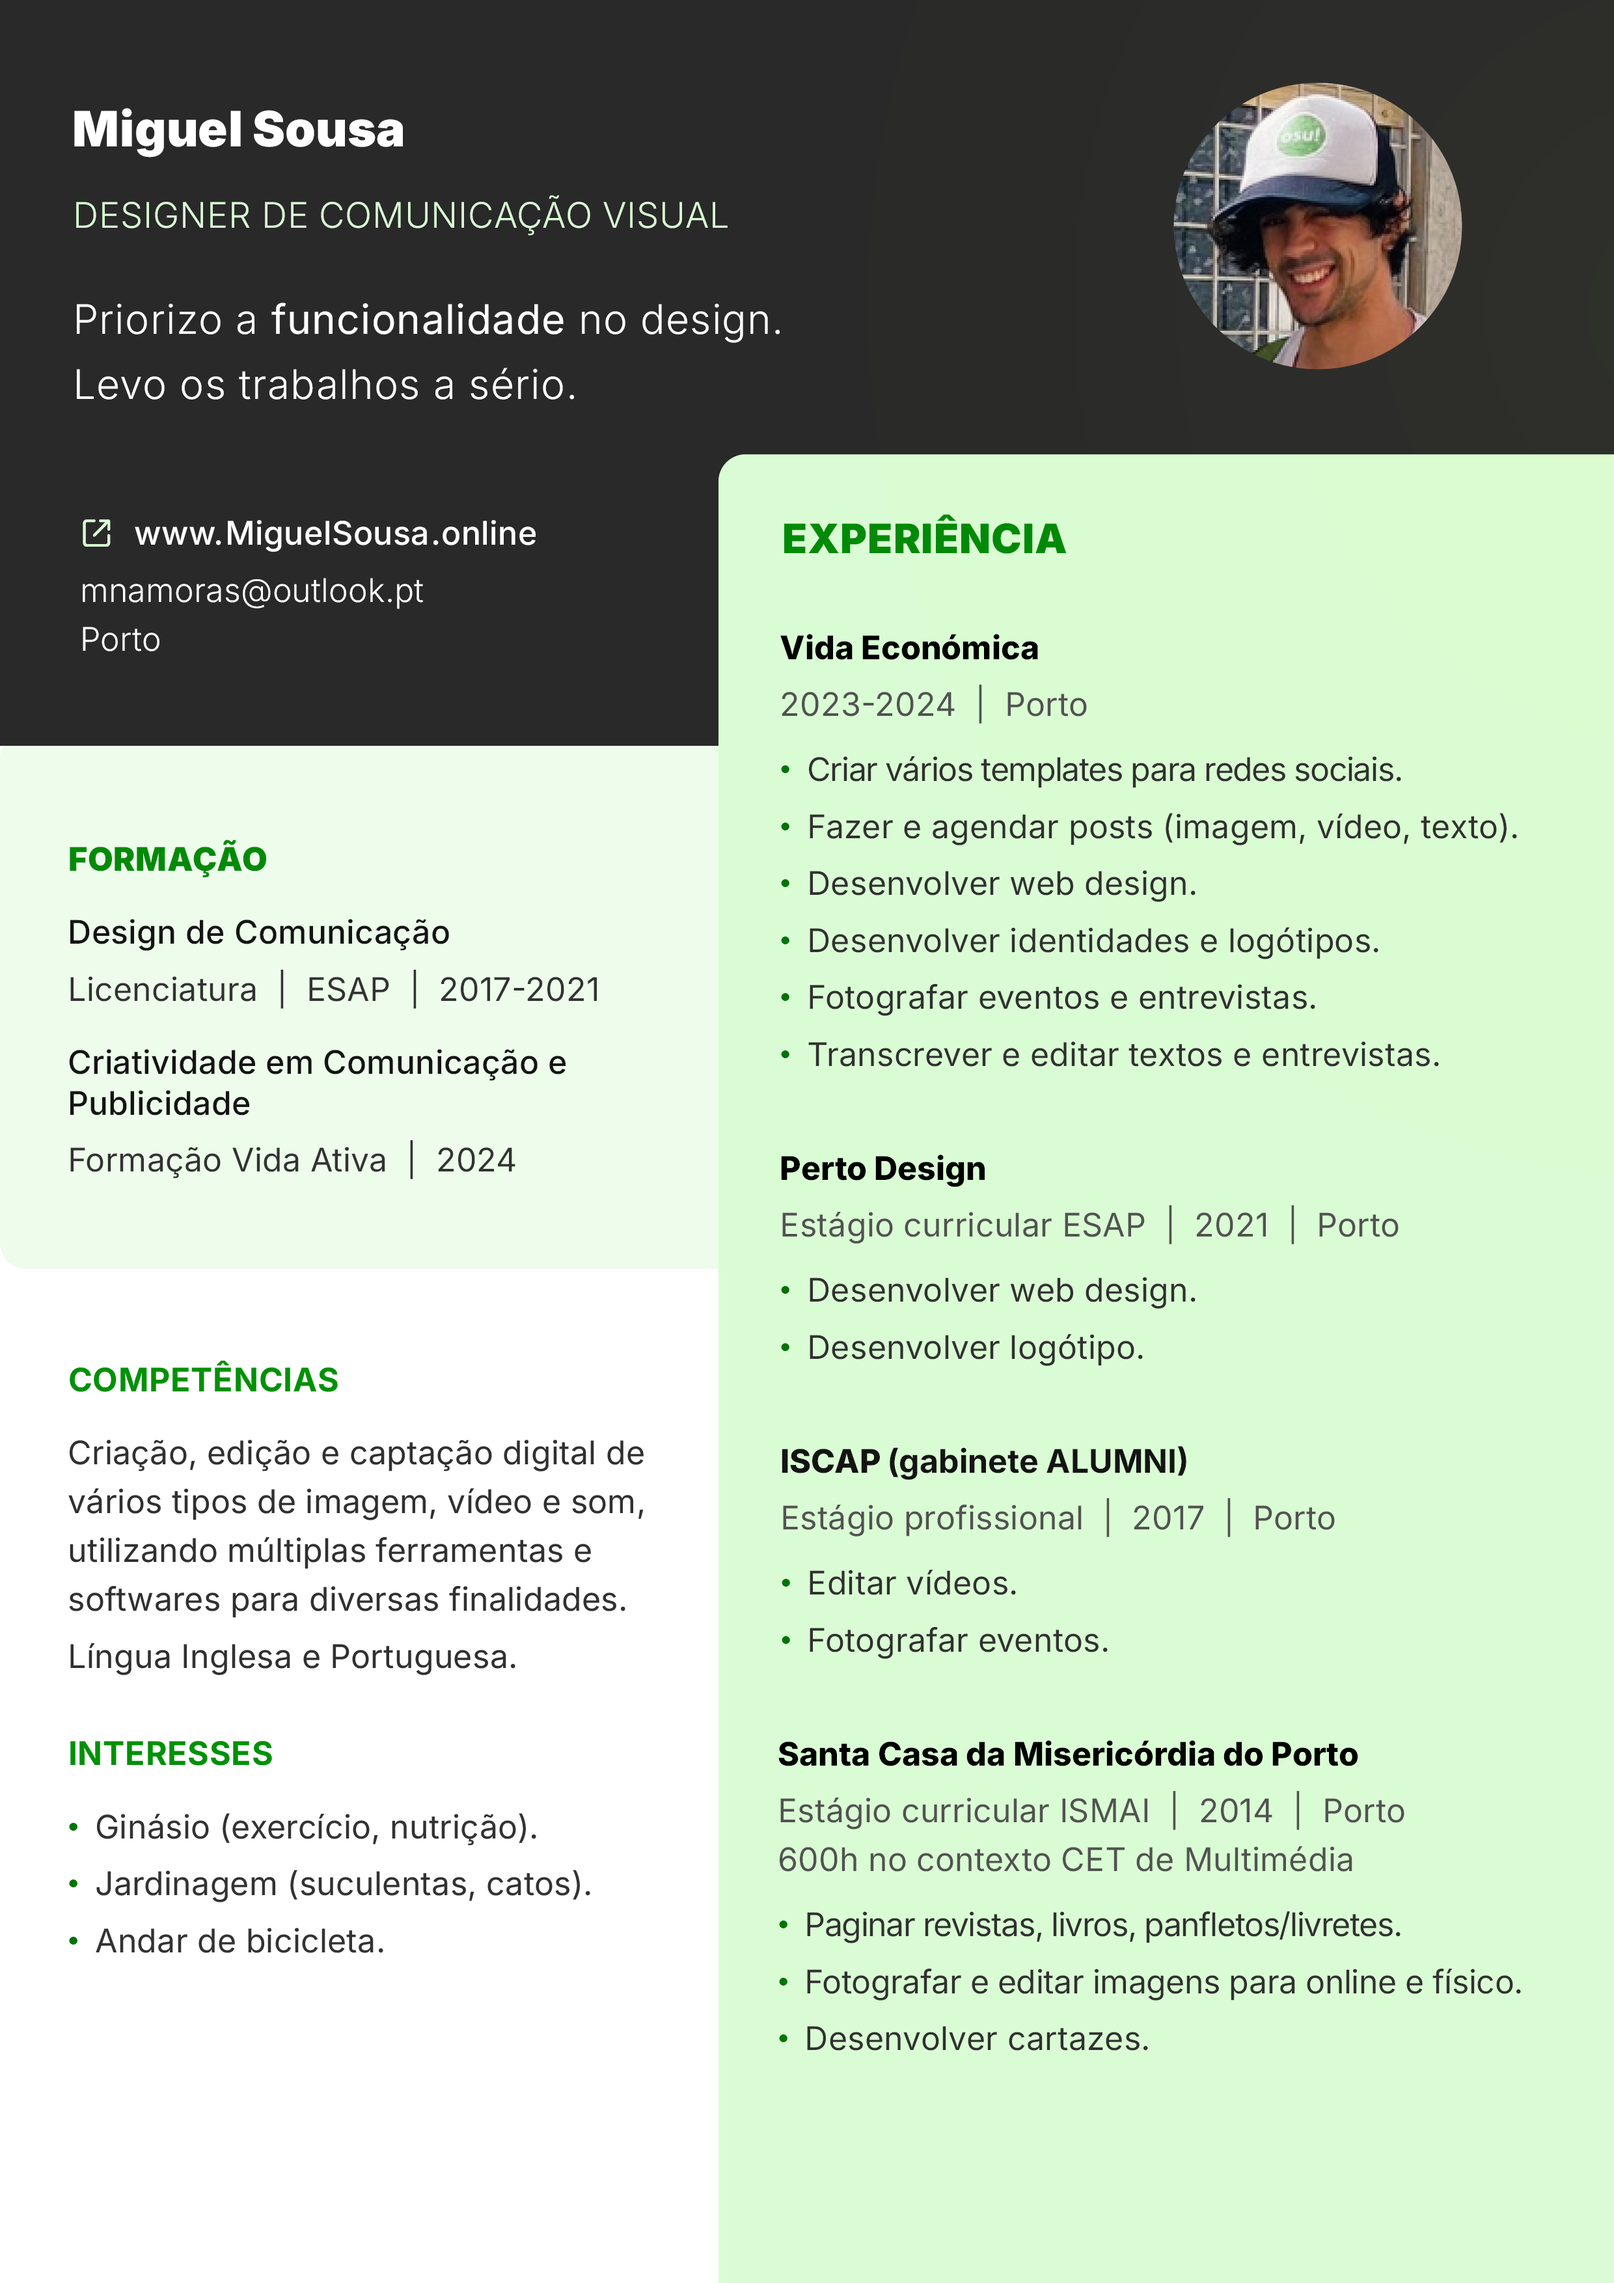
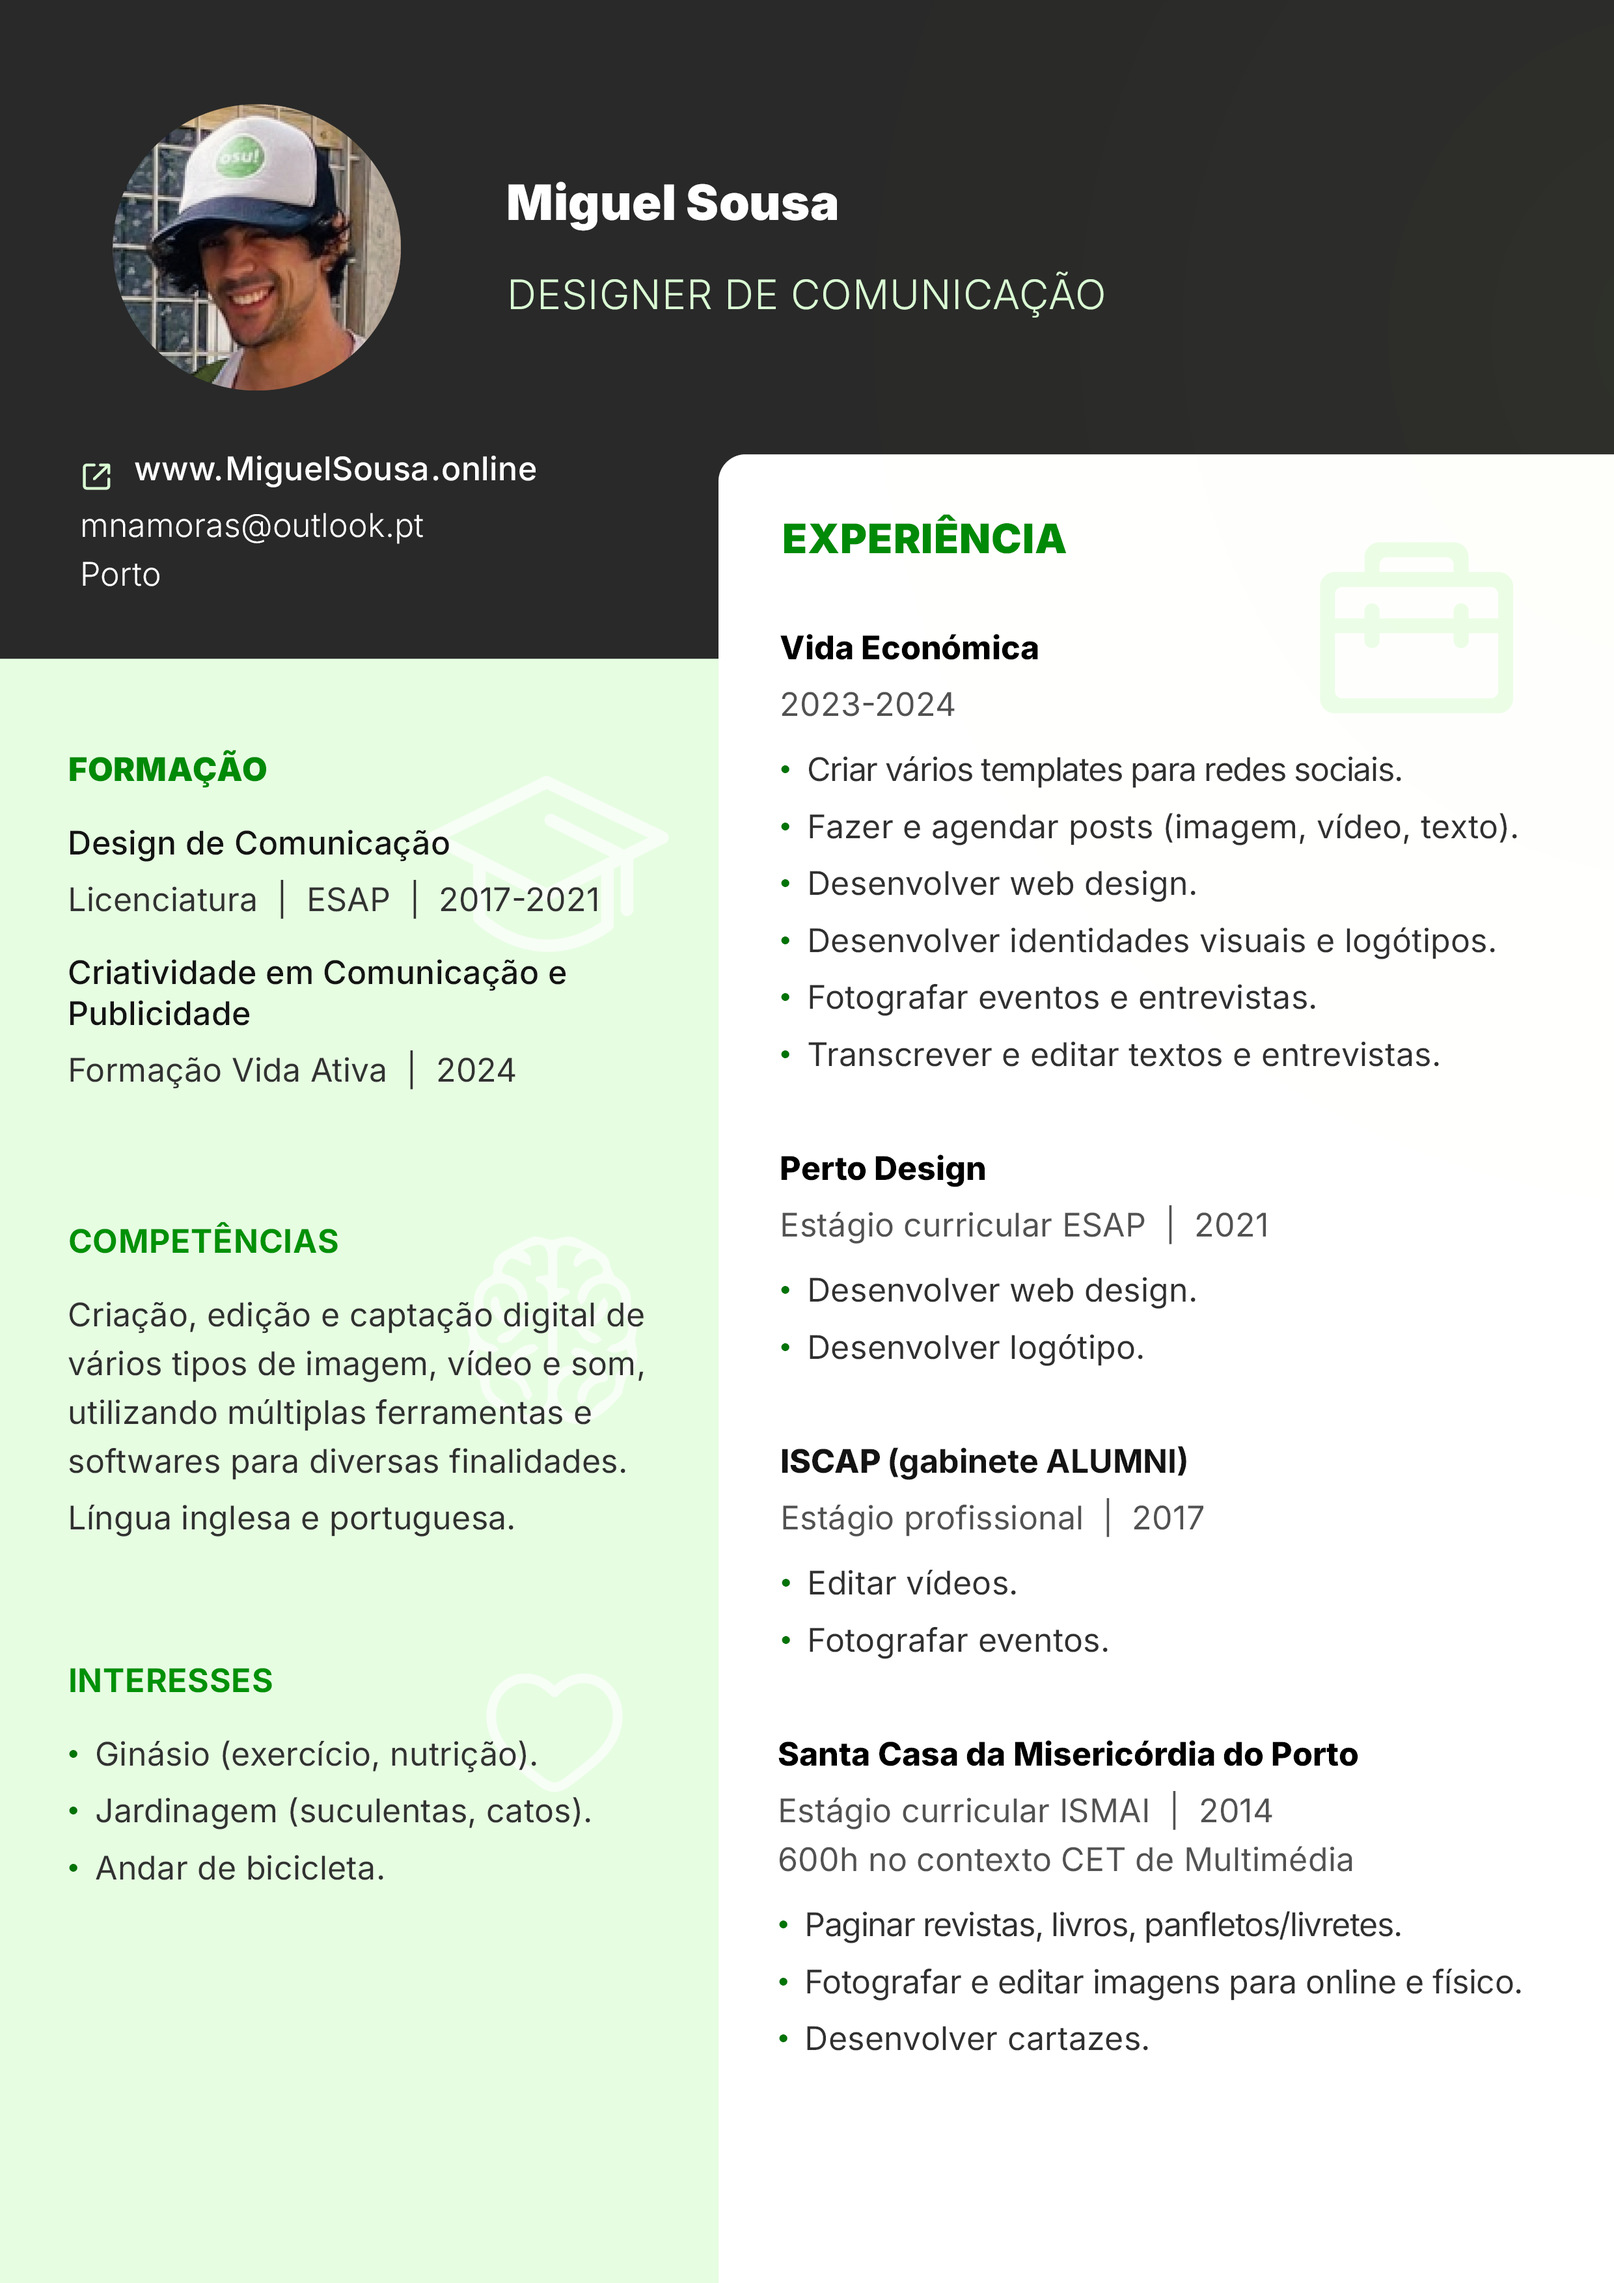
corrigir cv

diff --git a/cv exp.html b/cv exp.html
@@ -1,0 +1,190 @@
+<!DOCTYPE html>
+<html lang="pt">
+<head>
+    <meta charset="UTF-8">
+    <meta name="viewport" content="width=device-width, initial-scale=1.0">
+    <title>CV Miguel Sousa</title>
+    <style>
+        body {
+            font-family: 'Arial', sans-serif;
+            margin: 0;
+            padding: 0;
+            background-color: #eaeaea;
+            color: #333;
+        }
+        .cv-container {
+            max-width: 800px;
+            margin: 20px auto;
+            background: #fff;
+            box-shadow: 0px 4px 10px rgba(0, 0, 0, 0.1);
+            display: grid;
+            grid-template-columns: 1fr 2fr;
+        }
+        .header {
+            background-color: #333;
+            color: white;
+            padding: 20px;
+            text-align: center;
+        }
+        .header h1 {
+            margin: 0;
+            font-size: 2rem;
+        }
+        .header p {
+            margin: 5px 0 0;
+            font-size: 1rem;
+        }
+        .sidebar {
+            background-color: #f4f4f4;
+            padding: 20px;
+            border-right: 1px solid #ddd;
+        }
+        .profile-picture {
+            display: flex;
+            justify-content: center;
+            margin-bottom: 20px;
+        }
+        .profile-picture img {
+            width: 100px;
+            height: 100px;
+            border-radius: 50%;
+        }
+        .sidebar h1 {
+            font-size: 1.8rem;
+            text-align: center;
+            margin-bottom: 10px;
+        }
+        .sidebar p {
+            text-align: center;
+            color: #28a745;
+            font-weight: bold;
+            margin-bottom: 20px;
+        }
+        .sidebar .section {
+            margin-bottom: 20px;
+        }
+        .sidebar .section h2 {
+            font-size: 1.2rem;
+            margin-bottom: 10px;
+        }
+        .sidebar ul {
+            list-style: none;
+            padding: 0;
+            margin: 0;
+        }
+        .sidebar ul li {
+            margin-bottom: 10px;
+        }
+        .main-content {
+            padding: 20px;
+        }
+        .main-content .section {
+            margin-bottom: 20px;
+        }
+        .main-content h2 {
+            font-size: 1.5rem;
+            border-bottom: 2px solid #28a745;
+            padding-bottom: 5px;
+            margin-bottom: 15px;
+        }
+        .main-content ul {
+            list-style: none;
+            padding: 0;
+            margin: 0;
+        }
+        .main-content ul li {
+            margin-bottom: 10px;
+        }
+        .main-content ul li ul {
+            margin-left: 20px;
+        }
+        a {
+            text-decoration: none;
+            color: #28a745;
+        }
+    </style>
+</head>
+<body>
+    <div class="header">
+        <h1>Miguel Sousa</h1>
+        <p>DESIGNER DE COMUNICAÇÃO</p>
+    </div>
+    <div class="cv-container">
+        <div class="sidebar">
+            <div class="profile-picture">
+                <img src="profile-picture.jpg" alt="Foto de perfil de Miguel Sousa">
+            </div>
+            <div class="section">
+                <h2>Contactos</h2>
+                <ul>
+                    <li><a href="http://www.MiguelSousa.online">www.MiguelSousa.online</a></li>
+                    <li>mnmoras@outlook.pt</li>
+                    <li>Porto</li>
+                </ul>
+            </div>
+
+            <div class="section">
+                <h2>Competências</h2>
+                <ul>
+                    <li>Criação, edição e captação digital de imagem, vídeo e som.</li>
+                    <li>Domínio de múltiplos softwares.</li>
+                    <li>Fluência em português e inglês.</li>
+                </ul>
+            </div>
+
+            <div class="section">
+                <h2>Interesses</h2>
+                <ul>
+                    <li>Ginásio (exercício, nutrição).</li>
+                    <li>Jardinagem (suculentas, catos).</li>
+                    <li>Andar de bicicleta.</li>
+                </ul>
+            </div>
+        </div>
+
+        <div class="main-content">
+            <div class="section">
+                <h2>Formação</h2>
+                <ul>
+                    <li><strong>Design de Comunicação</strong> - Licenciatura, ESAP (2017-2021)</li>
+                    <li><strong>Criatividade em Comunicação e Publicidade</strong> - Formação Vida Ativa (2024)</li>
+                </ul>
+            </div>
+
+            <div class="section">
+                <h2>Experiência</h2>
+                <ul>
+                    <li><strong>Vida Económica</strong> (2023-2024)
+                        <ul>
+                            <li>Criar templates para redes sociais.</li>
+                            <li>Fazer e agendar posts (imagem, vídeo, texto).</li>
+                            <li>Desenvolver web design e identidades visuais.</li>
+                            <li>Fotografar e editar eventos.</li>
+                            <li>Transcrever entrevistas.</li>
+                        </ul>
+                    </li>
+                    <li><strong>Perto Design</strong> (Estágio ESAP, 2021)
+                        <ul>
+                            <li>Desenvolver web design.</li>
+                            <li>Criar logótipo.</li>
+                        </ul>
+                    </li>
+                    <li><strong>ISCAP (Gabinete ALUMNI)</strong> (2017)
+                        <ul>
+                            <li>Editar vídeos.</li>
+                            <li>Fotografar eventos.</li>
+                        </ul>
+                    </li>
+                    <li><strong>Santa Casa da Misericórdia do Porto</strong> (Estágio ISMAI, 2014)
+                        <ul>
+                            <li>Paginar revistas, livros e panfletos.</li>
+                            <li>Fotografar e editar imagens para plataformas.</li>
+                            <li>Desenvolver cartazes.</li>
+                        </ul>
+                    </li>
+                </ul>
+            </div>
+        </div>
+    </div>
+</body>
+</html>

diff --git a/cv exp 2.html b/cv exp 2.html
@@ -1,0 +1,196 @@
+<!DOCTYPE html>
+<html lang="pt">
+<head>
+    <meta charset="UTF-8">
+    <meta name="viewport" content="width=device-width, initial-scale=1.0">
+    <title>CV Miguel Sousa</title>
+    <style>
+        body {
+            margin: 0;
+            padding: 0;
+            font-family: 'Arial', sans-serif;
+            background-color: #eaeaea;
+            color: #333;
+        }
+
+        .cv-container {
+            max-width: 900px;
+            margin: 0 auto;
+            background: #f4f4f4;
+        }
+
+        .header {
+            background-color: #333;
+            color: white;
+            padding: 20px;
+            display: flex;
+            align-items: center;
+        }
+
+        .header img {
+            width: 80px;
+            height: 80px;
+            border-radius: 50%;
+            margin-right: 20px;
+        }
+
+        .header h1 {
+            font-size: 2rem;
+            margin: 0;
+        }
+
+        .header p {
+            margin: 0;
+            font-size: 1.2rem;
+            color: #28a745;
+        }
+
+        .content {
+            display: flex;
+            flex-wrap: wrap;
+        }
+
+        .left-column {
+            background-color: #28a745;
+            color: white;
+            width: 30%;
+            padding: 20px;
+        }
+
+        .left-column h2 {
+            border-bottom: 1px solid white;
+            padding-bottom: 5px;
+            margin-bottom: 10px;
+            font-size: 1.2rem;
+        }
+
+        .left-column ul {
+            list-style: none;
+            padding: 0;
+            margin: 0;
+        }
+
+        .left-column ul li {
+            margin-bottom: 10px;
+        }
+
+        .right-column {
+            background-color: white;
+            width: 70%;
+            padding: 20px;
+        }
+
+        .right-column h2 {
+            border-bottom: 2px solid #28a745;
+            padding-bottom: 5px;
+            margin-bottom: 15px;
+            font-size: 1.5rem;
+        }
+
+        .right-column ul {
+            list-style: none;
+            padding: 0;
+            margin: 0;
+        }
+
+        .right-column ul li {
+            margin-bottom: 10px;
+        }
+
+        .right-column ul li ul {
+            margin-left: 20px;
+        }
+
+        a {
+            text-decoration: none;
+            color: #28a745;
+        }
+    </style>
+</head>
+<body>
+    <div class="cv-container">
+        <div class="header">
+            <img src="profile-picture.jpg" alt="Foto de perfil de Miguel Sousa">
+            <div>
+                <h1>Miguel Sousa</h1>
+                <p>DESIGNER DE COMUNICAÇÃO</p>
+            </div>
+        </div>
+
+        <div class="content">
+            <div class="left-column">
+                <div class="section">
+                    <h2>Contactos</h2>
+                    <ul>
+                        <li><a href="http://www.MiguelSousa.online">www.MiguelSousa.online</a></li>
+                        <li>mnmoras@outlook.pt</li>
+                        <li>Porto</li>
+                    </ul>
+                </div>
+
+                <div class="section">
+                    <h2>Competências</h2>
+                    <ul>
+                        <li>Criação, edição e captação digital de imagem, vídeo e som.</li>
+                        <li>Domínio de múltiplos softwares.</li>
+                        <li>Fluência em português e inglês.</li>
+                    </ul>
+                </div>
+
+                <div class="section">
+                    <h2>Interesses</h2>
+                    <ul>
+                        <li>Ginásio (exercício, nutrição).</li>
+                        <li>Jardinagem (suculentas, catos).</li>
+                        <li>Andar de bicicleta.</li>
+                    </ul>
+                </div>
+            </div>
+
+            <div class="right-column">
+                <div class="section">
+                    <h2>Formação</h2>
+                    <ul>
+                        <li><strong>Design de Comunicação</strong> - Licenciatura, ESAP (2017-2021)</li>
+                        <li><strong>Criatividade em Comunicação e Publicidade</strong> - Formação Vida Ativa (2024)</li>
+                    </ul>
+                </div>
+
+                <div class="section">
+                    <h2>Experiência</h2>
+                    <ul>
+                        <li><strong>Vida Económica</strong> (2023-2024)
+                            <ul>
+                                <li>Criar templates para redes sociais.</li>
+                                <li>Fazer e agendar posts (imagem, vídeo, texto).</li>
+                                <li>Desenvolver web design e identidades visuais.</li>
+                                <li>Fotografar e editar eventos.</li>
+                                <li>Transcrever entrevistas.</li>
+                            </ul>
+                        </li>
+                        <li><strong>Perto Design</strong> (Estágio ESAP, 2021)
+                            <ul>
+                                <li>Desenvolver web design.</li>
+                                <li>Criar logótipo.</li>
+                            </ul>
+                        </li>
+                        <li><strong>ISCAP (Gabinete ALUMNI)</strong> (2017)
+                            <ul>
+                                <li>Editar vídeos.</li>
+                                <li>Fotografar eventos.</li>
+                            </ul>
+                        </li>
+                        <li><strong>Santa Casa da Misericórdia do Porto</strong> (Estágio ISMAI, 2014)
+                            <ul>
+                                <li>Paginar revistas, livros e panfletos.</li>
+                                <li>Fotografar e editar imagens para plataformas.</li>
+                                <li>Desenvolver cartazes.</li>
+                            </ul>
+                        </li>
+                    </ul>
+                </div>
+            </div>
+        </div>
+    </div>
+</body>
+</html>
